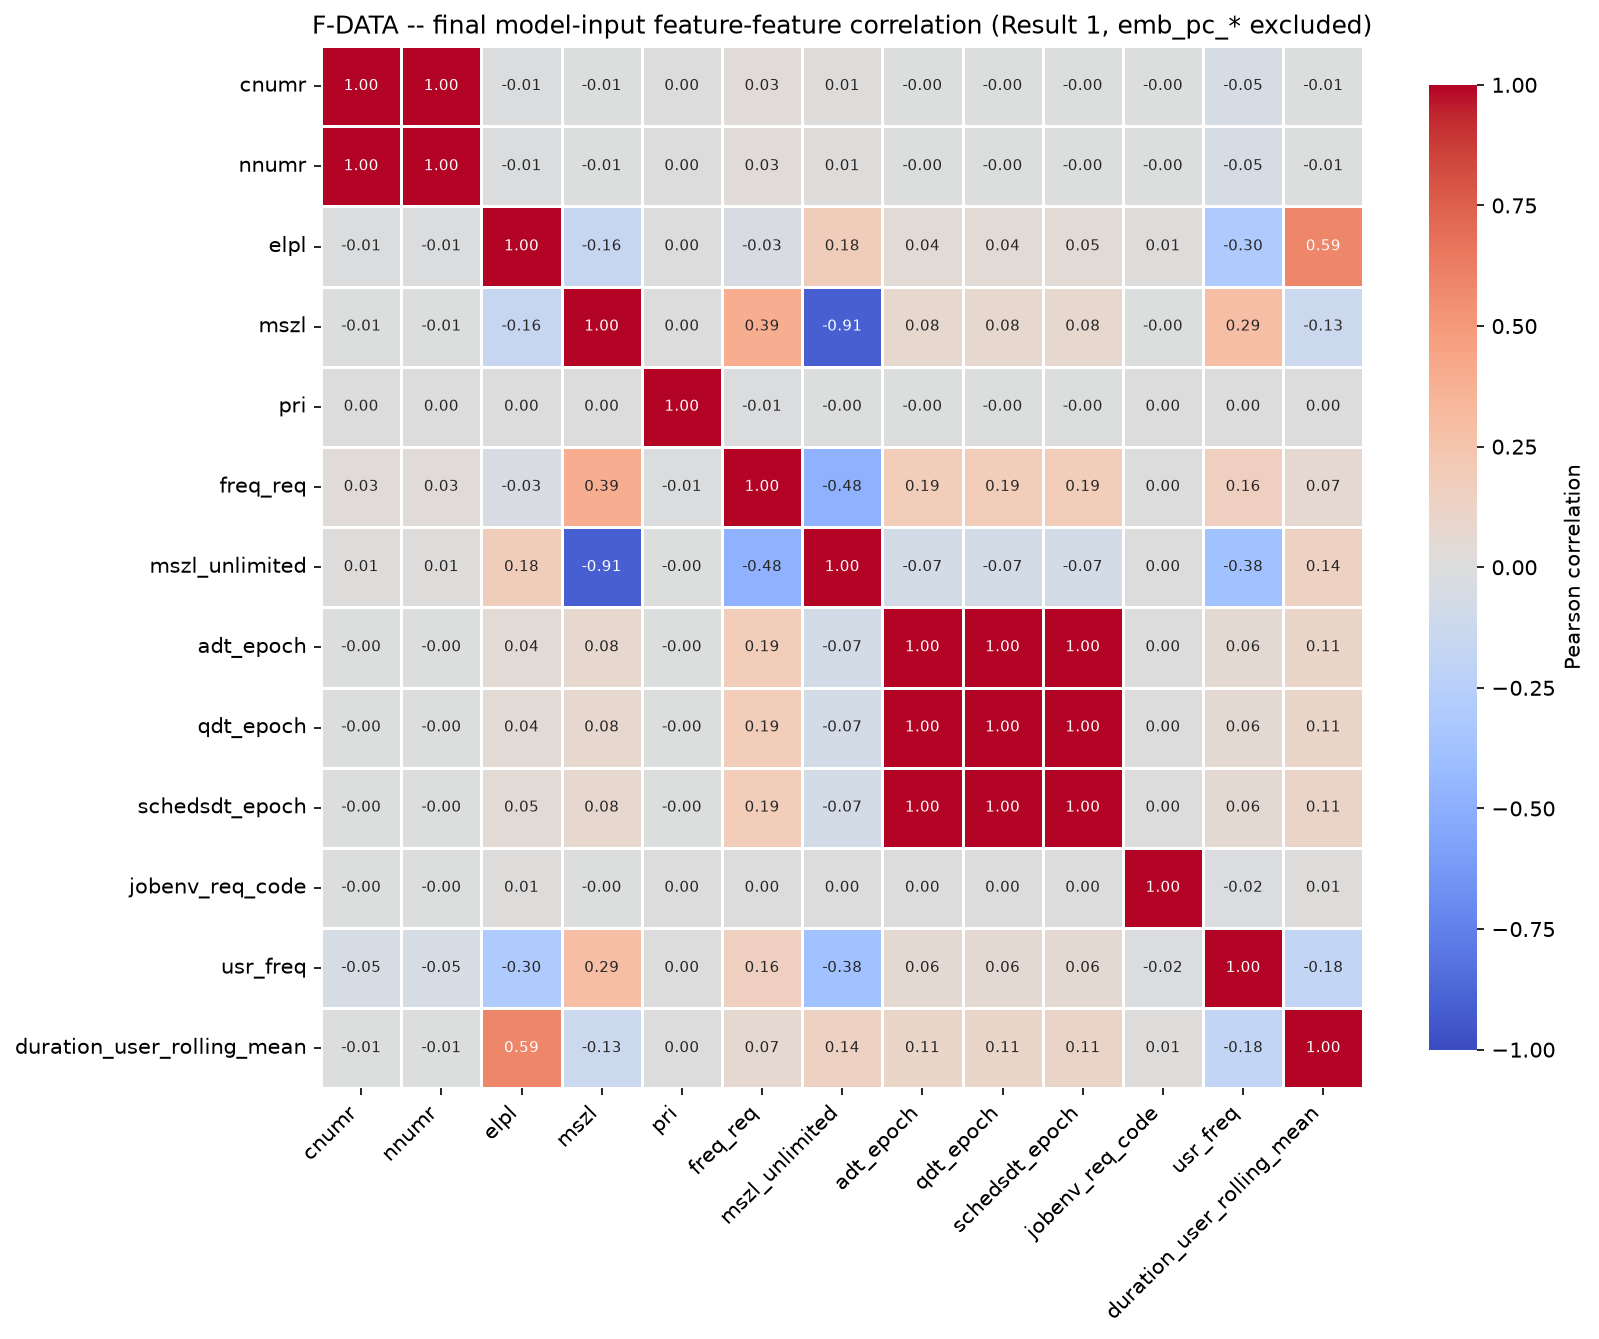
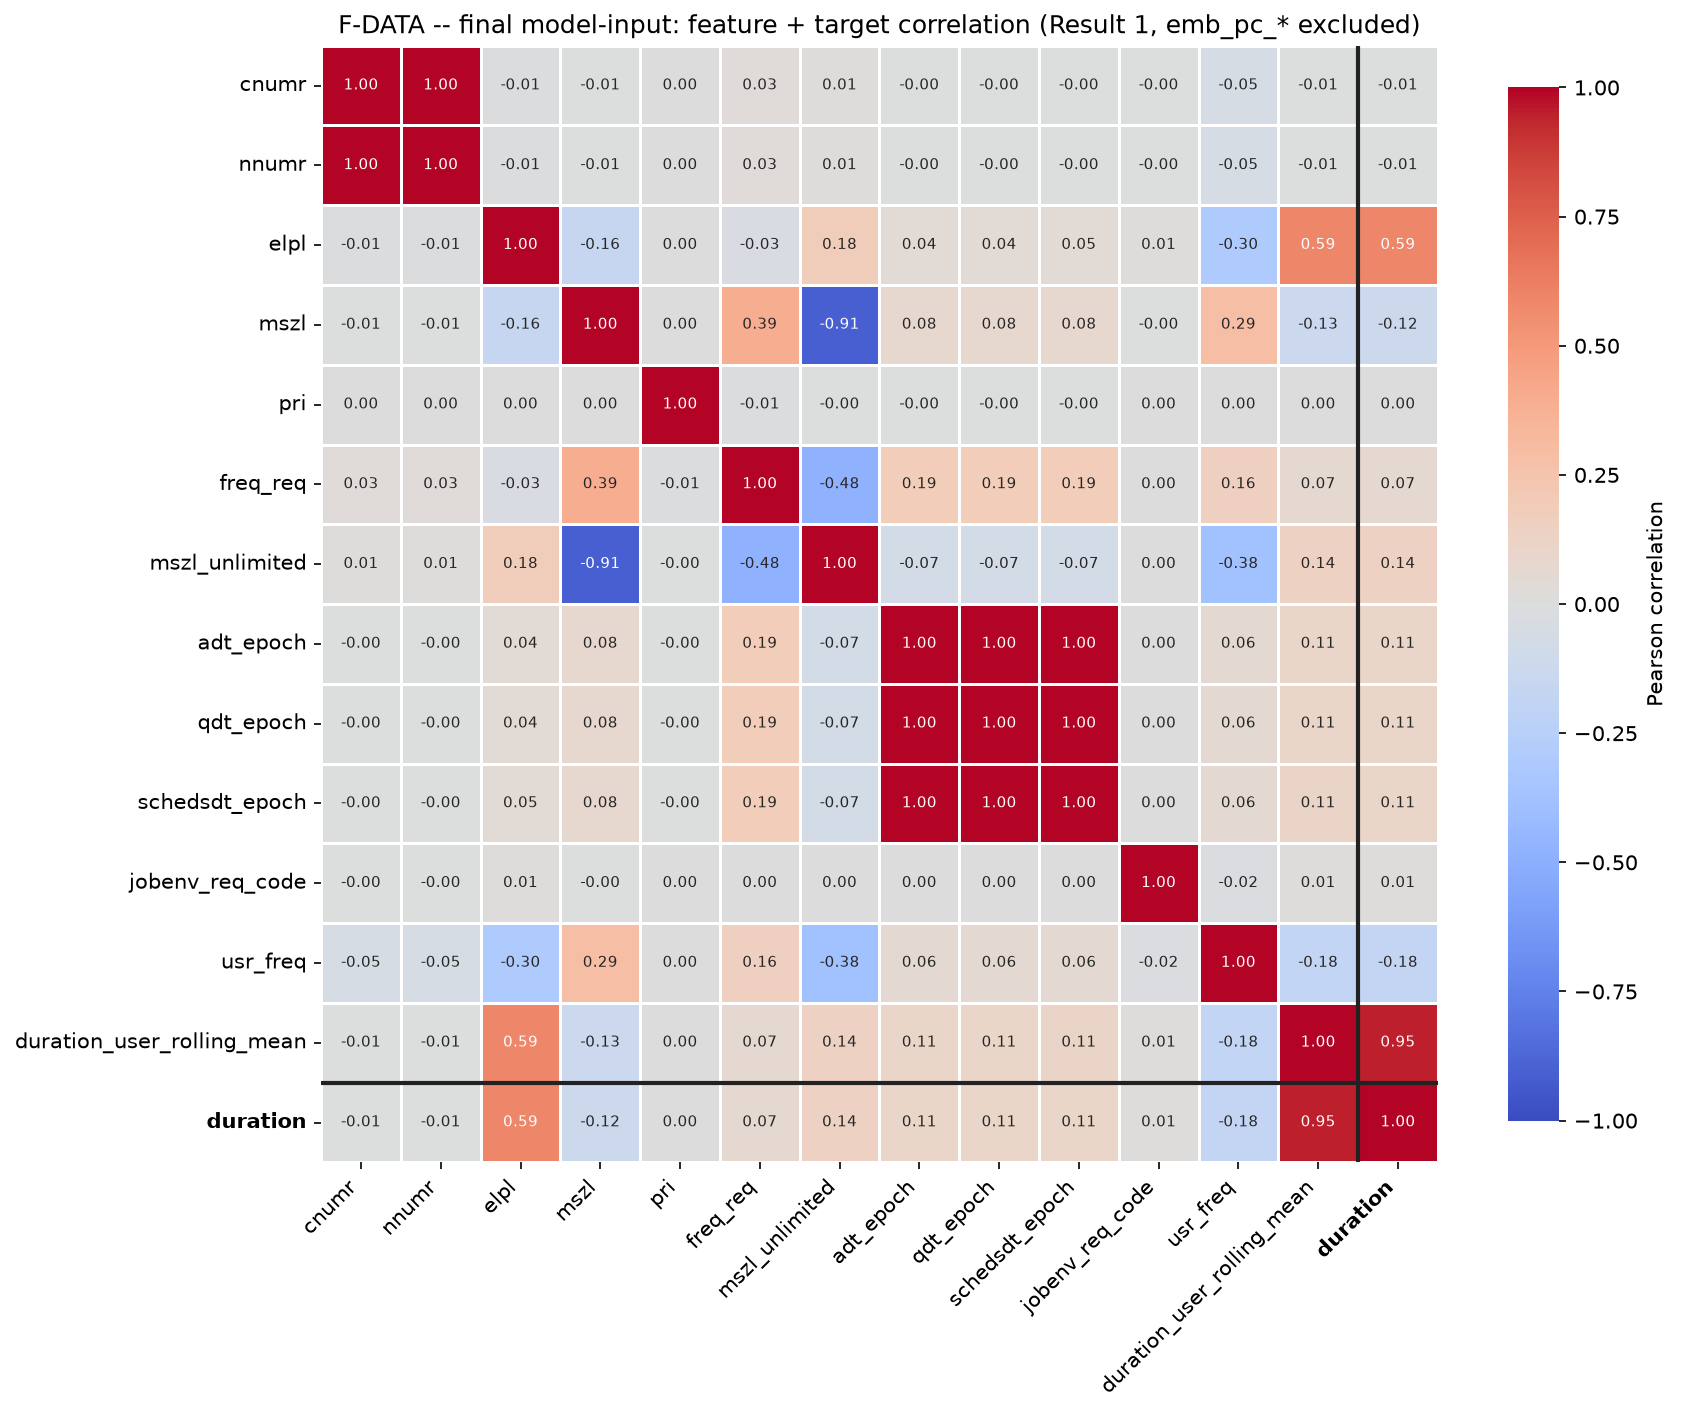
plot_feature_correlation_heatmap: add target row/col; extend NB02 early check to all 3 targets
src/plotting.py: plot_feature_correlation_heatmap gains optional target /
target_name params -- when given, the target is appended as one more column
before corr(), so it appears as both the last row and last column, set off
from the feature block by a heavier gridline and a bold tick label.
plot_feature_target_correlation is untouched.

Wired into all four existing heatmap call sites (NB02 F-DATA/PM100 early
checks, NB05 F-DATA/PM100 final Result-1 matrices), each passing its raw
(pre-log1p) target. Four heatmap PNGs re-saved under their existing names.

NB02 Step 2b (early, raw Tier A passthrough columns, pre-encoding) is
extended from one target per dataset to all three: F-DATA {duration, mmszu,
avgpcon} and PM100 {run_time, mem_alloc, power_mean}. mmszu resolves its
documented msza fallback before correlating. 12 figures total, renamed with
a target suffix (fdata_early_feature_target_corr.png ->
..._duration.png, etc.) -- the plain names are removed.

NB05 Step 13g/24g gain a one-line note: only the target modelled in that
notebook is shown there; the raw screen for the other two targets per
dataset lives in NB02's Step 2b.

Notable finding: F-DATA's cnumr/nnumr both correlate +1.00 with avgpcon,
the raw-column confirmation of notebook 03's "avgpcon is a job-wide total,
proportional to node count" result.

diff --git a/src/plotting.py b/src/plotting.py
@@ -382,16 +382,31 @@ def plot_feature_target_correlation(feature_df, target, title, method: str = "pe
     return fig
 
 
-def plot_feature_correlation_heatmap(feature_df, title, method: str = "pearson"):
+def plot_feature_correlation_heatmap(
+    feature_df, title, method: str = "pearson", target=None, target_name: str = "target"
+):
     """Seaborn heatmap of the feature-vs-feature correlation matrix on a
     fixed -1..+1 scale, with a real colourbar. Cells are annotated when
-    the matrix is small enough (<= 20 features) to stay legible.
-    Pairwise-complete correlations (NaNs dropped per column pair)."""
+    the matrix is small enough (<= 21 rows) to stay legible.
+    Pairwise-complete correlations (NaNs dropped per column pair).
+
+    If `target` (a 1-D array/Series aligned to `feature_df`'s rows, the
+    RAW target -- not log-transformed) is given, it is appended as one
+    more column before `corr()`, so it shows up as both the last row and
+    the last column, labelled `target_name`. That last row/col is set off
+    from the features with a heavier gridline and a bold tick label, so
+    the one predictor-vs-target strip reads distinctly from the
+    predictor-vs-predictor block above it. `plot_feature_target_correlation`
+    stays the clearer view for the plain ranked list; this is the full
+    picture in one panel."""
     feats = feature_df.apply(pd.to_numeric, errors="coerce")
+    if target is not None:
+        feats = feats.copy()
+        feats[target_name] = pd.Series(np.asarray(target, dtype=float), index=feats.index)
     corr = feats.corr(method=method)
 
     n = corr.shape[0]
-    annot = n <= 20
+    annot = n <= 21
     fig, ax = plt.subplots(figsize=(0.62 * n + 3, 0.55 * n + 2.5))
     sns.heatmap(
         corr, cmap=_CORR_CMAP, vmin=-1.0, vmax=1.0, center=0.0,
@@ -403,5 +418,11 @@ def plot_feature_correlation_heatmap(feature_df, title, method: str = "pearson")
     for tick in ax.get_xticklabels():
         tick.set_rotation(45)
         tick.set_ha("right")
+    if target is not None:
+        # visually separate the target strip from the feature block
+        ax.axhline(n - 1, color="#222222", linewidth=2.0)
+        ax.axvline(n - 1, color="#222222", linewidth=2.0)
+        for tick in (ax.get_xticklabels()[-1], ax.get_yticklabels()[-1]):
+            tick.set_fontweight("bold")
     fig.tight_layout()
     return fig
